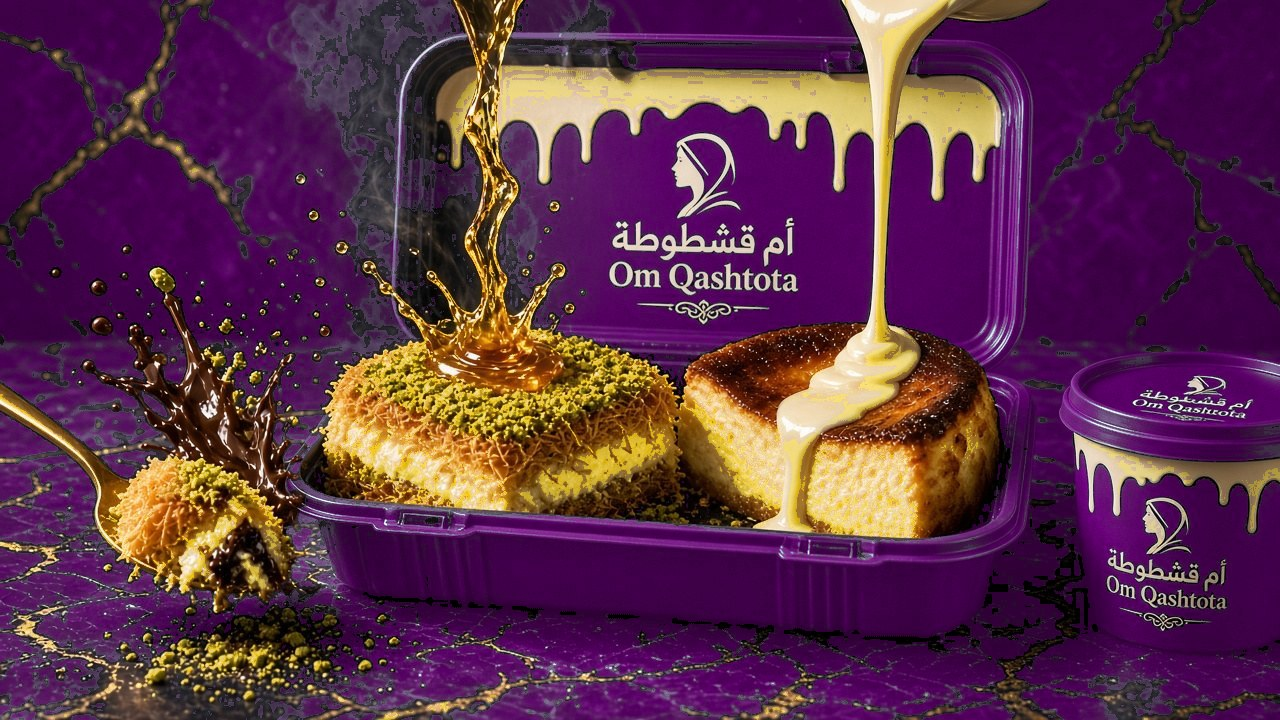
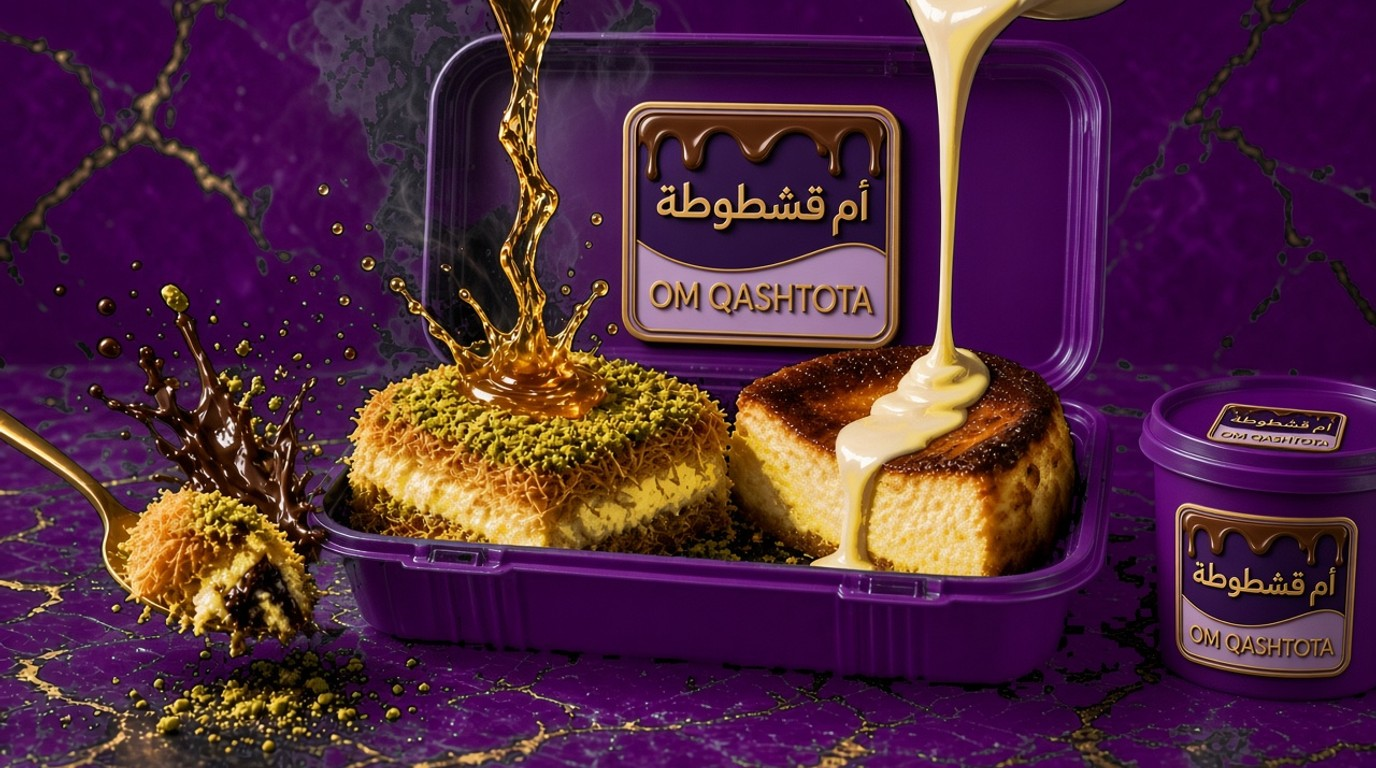
Put the new 3D badge on the purple hero packaging.

diff --git a/index.html b/index.html
@@ -8,7 +8,7 @@
     <link rel="preconnect" href="https://fonts.googleapis.com">
     <link rel="preconnect" href="https://fonts.gstatic.com" crossorigin>
     <link href="https://fonts.googleapis.com/css2?family=Amiri:wght@700&family=Cairo:wght@700;800;900&family=Poppins:wght@500;600;700&display=swap" rel="stylesheet">
-    <link rel="preload" as="image" href="images/hero/hero-qashtota.jpg" type="image/jpeg">
+    <link rel="preload" as="image" href="images/hero/hero-qashtota.jpg?v=63" type="image/jpeg">
     <link rel="icon" href="images/favicon-32.png?v=62" type="image/png" sizes="32x32">
     <link rel="apple-touch-icon" href="images/apple-touch-icon.png?v=62">
     <link rel="stylesheet" href="style.css?v=62">
@@ -56,13 +56,13 @@
         <section class="hero" aria-roledescription="carousel" aria-label="عرض الحلويات">
             <div class="hero-slides">
                 <figure class="hero-slide is-active" data-caption="أم القشطوطة المانجو والبيستاشيو">
-                    <img src="images/hero/hero-qashtota.jpg" width="1376" height="768" fetchpriority="high" decoding="async" alt="علبة قشطوطة مستطيلة بالشعار، ملعقة ذهبية ترفع كيك متشرب بالحليب مع فستق وشوكولاتة تتطاير">
+                    <img src="images/hero/hero-qashtota.jpg?v=63" width="1376" height="768" fetchpriority="high" decoding="async" alt="علبة قشطوطة مستطيلة بشعار أم قشطوطة الجديد، ملعقة ذهبية ترفع كيك متشرب بالحليب مع فستق وشوكولاتة تتطاير">
                 </figure>
                 <figure class="hero-slide" data-caption="الكشري الحلو المكس">
-                    <img src="images/hero/hero-koshari.jpg" width="1376" height="768" loading="lazy" decoding="async" alt="علبة كشري حلو دائرية بالشعار، طبقات كريمة وكنافة وفراولة مع رذاذ شوكولاتة">
+                    <img src="images/hero/hero-koshari.jpg?v=63" width="1376" height="768" loading="lazy" decoding="async" alt="علبة كشري حلو دائرية بشعار أم قشطوطة الجديد، طبقات كريمة وكنافة وفراولة مع رذاذ شوكولاتة">
                 </figure>
                 <figure class="hero-slide" data-caption="كيك الكنافة وسان سيباستيان الملكي">
-                    <img src="images/hero/hero-cake.jpg" width="1376" height="768" loading="lazy" decoding="async" alt="علبة أم قشطوطة فيها كنافة بالفستق وسان سيباستيان، عسل وكريمة ينزلان من فوق">
+                    <img src="images/hero/hero-cake.jpg?v=63" width="1376" height="768" loading="lazy" decoding="async" alt="علبة أم قشطوطة فيها كنافة بالفستق وسان سيباستيان، عسل وكريمة ينزلان من فوق">
                 </figure>
             </div>
             <div class="hero-shade"></div>
